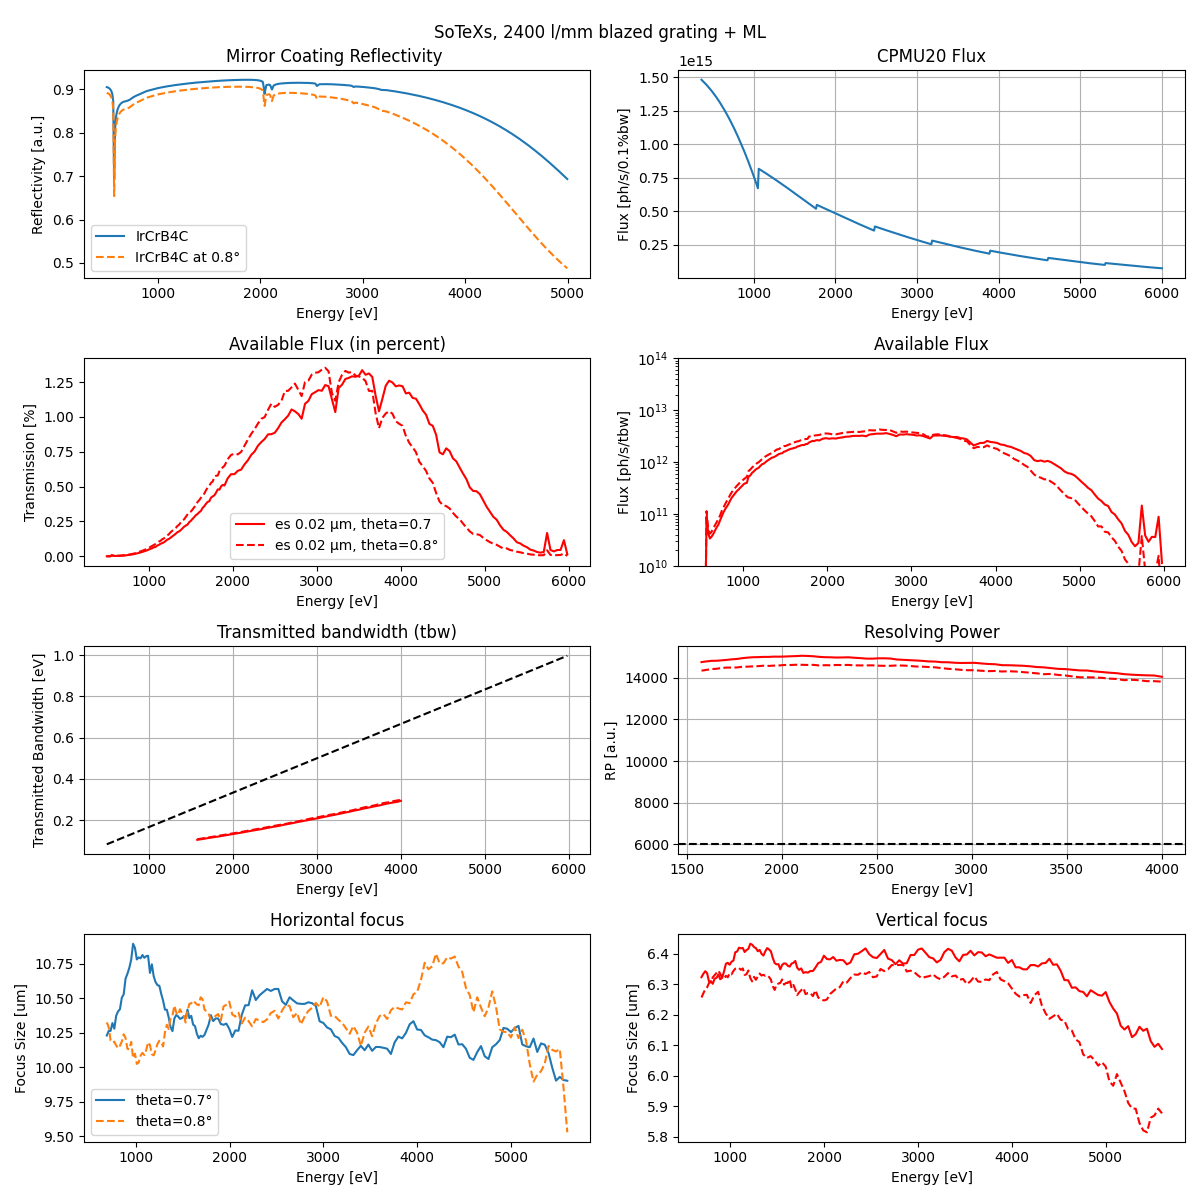
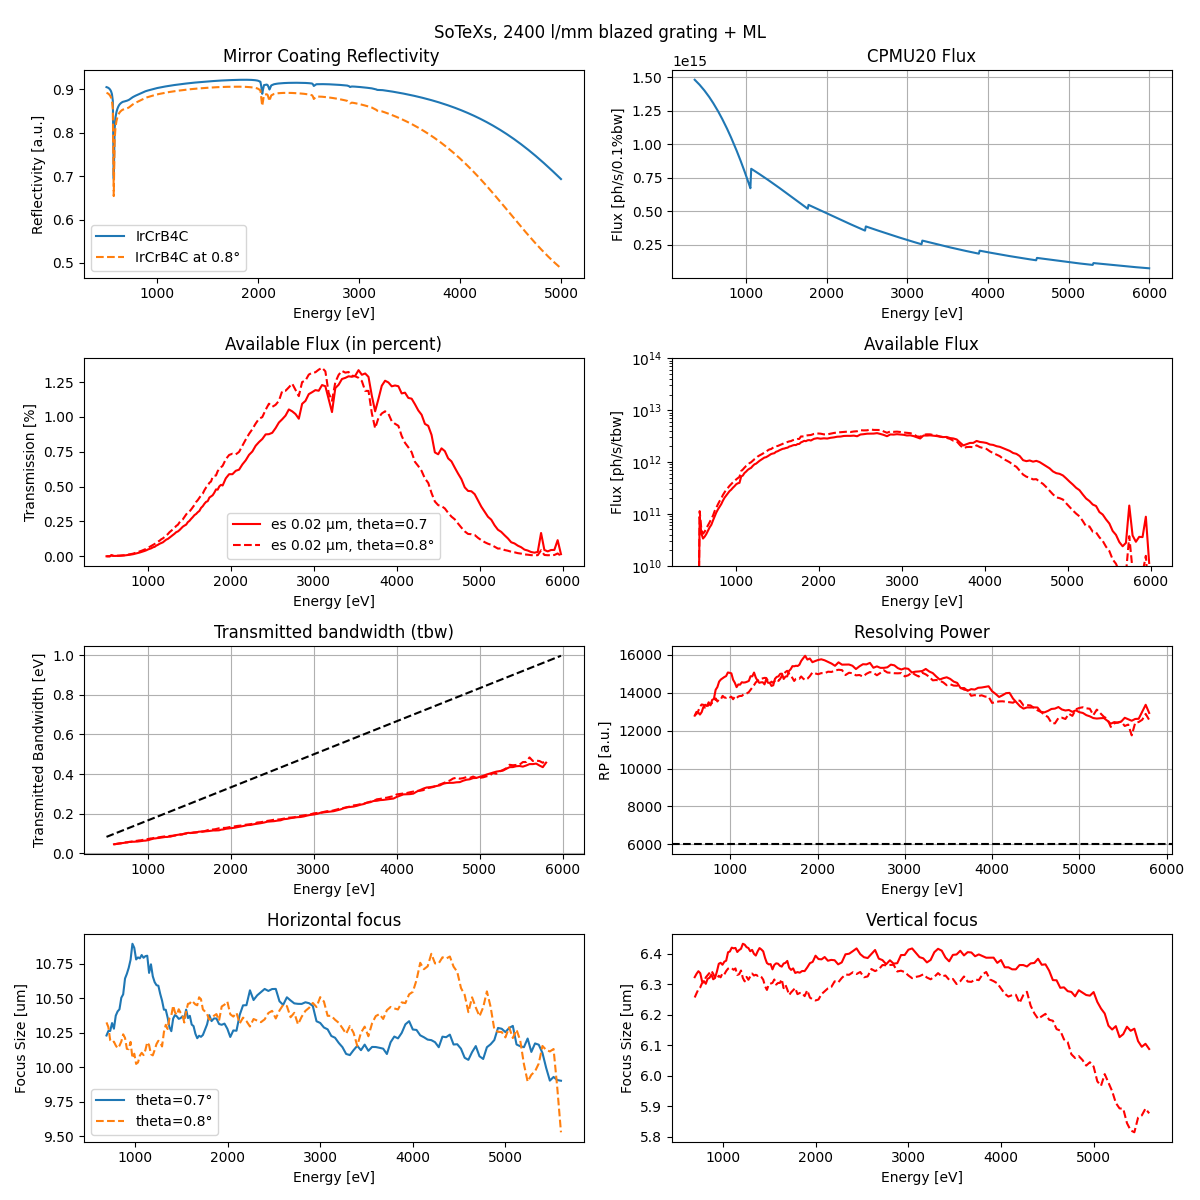
update

diff --git a/simulation/9/eval_2400.py b/simulation/9/eval_2400.py
@@ -113,16 +113,17 @@ ax2.set_ylim(10e9, 10e13)
 
 # BANDWIDTH
 ax = axs[2,0]
+window = 10
 for ind, es in enumerate(exit_slit_list):
     filtered_rp = flux07[flux07['ExitSlit.openingHeight'] == es]
     energy = filtered_rp['CPMU20.photonEnergy']
     bw = filtered_rp['Bandwidth']
-    ax.plot(p.moving_average(energy,w*5),p.moving_average(bw,w*5),color=colors[ind], label=f'es {es} μm' )
+    ax.plot(p.moving_average(energy,window),p.moving_average(bw,window),color=colors[ind], label=f'es {es} μm' )
 
     filtered_rp = flux08[flux08['ExitSlit.openingHeight'] == es]
     energy = filtered_rp['CPMU20.photonEnergy']
     bw = filtered_rp['Bandwidth']
-    ax.plot(p.moving_average(energy,w*5),p.moving_average(bw,w*5),color=colors[ind], label=f'es {es} μm', linestyle='dashed' )
+    ax.plot(p.moving_average(energy,window),p.moving_average(bw,window),color=colors[ind], label=f'es {es} μm', linestyle='dashed' )
     
 ax.set_xlabel('Energy [eV]')
 ax.set_ylabel('Transmitted Bandwidth [eV]')
@@ -133,7 +134,6 @@ ax.grid(which='both', axis='both')
 energy_threshold = np.arange(energy.iloc[0], energy.iloc[-1])
 threshold_transmission = energy_threshold/6000
 ax.plot(energy_threshold, threshold_transmission, linestyle='dashed', color='black')
-    
 # ax.legend()
 
 
@@ -143,12 +143,12 @@ for ind, es in enumerate(exit_slit_list):
     filtered_rp = flux07[flux07['ExitSlit.openingHeight'] == es]
     energy = filtered_rp['CPMU20.photonEnergy']
     bw = filtered_rp['Bandwidth']
-    ax.plot(p.moving_average(energy,w*5),p.moving_average(energy/bw,w*5), color=colors[ind], label=f'es {es} μm' )
+    ax.plot(p.moving_average(energy,window),p.moving_average(energy/bw,window), color=colors[ind], label=f'es {es} μm' )
 
     filtered_rp = flux08[flux08['ExitSlit.openingHeight'] == es]
     energy = filtered_rp['CPMU20.photonEnergy']
     bw = filtered_rp['Bandwidth']
-    ax.plot(p.moving_average(energy,w*5),p.moving_average(energy/bw,w*5), color=colors[ind], linestyle='dashed', label=f'es {es} μm' )
+    ax.plot(p.moving_average(energy,window),p.moving_average(energy/bw,window), color=colors[ind], linestyle='dashed', label=f'es {es} μm' )
 
 
 ax.set_xlabel('Energy [eV]')
